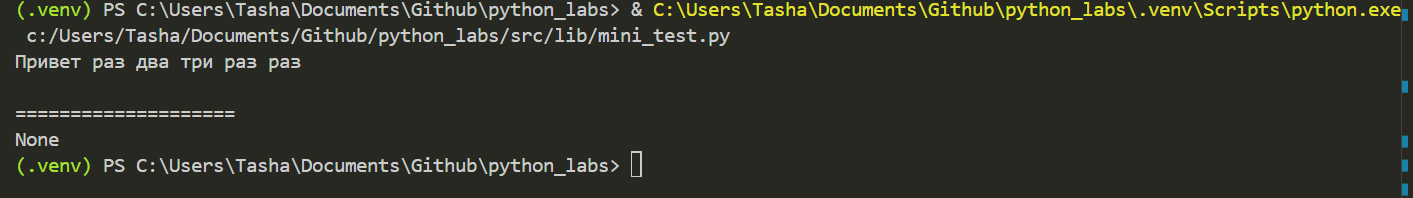
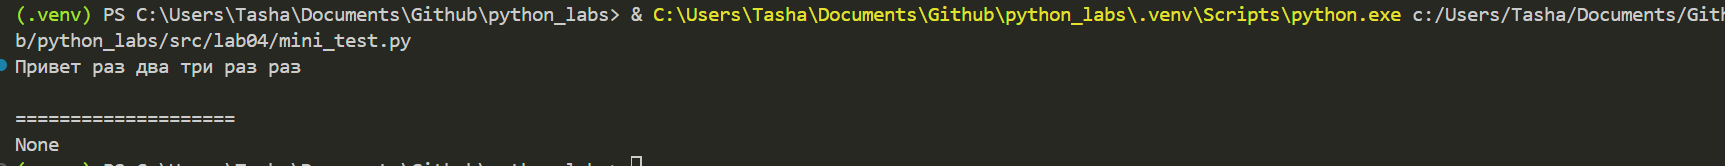
поперекладывала папки

diff --git a/src/lab04/io_txt_csv.py b/src/lab04/io_txt_csv.py
@@ -7,7 +7,8 @@ from pathlib import Path
 def read_text(path: str | Path, encoding: str = "utf-8") -> str:
     """
     Открыть файл на чтение в указанной кодировке и вернуть содержимое как одну строку 
-    + обработка ошибок + возможность выбора кодировки
+    + обработка ошибок + возможность выбора кодировки (что бы выбрать другую кодировку , нужно ввести
+    другой вид кодировки, например: encoding="cp1251")
     """
     p = Path(path)
 

diff --git a/src/lab04/text_report.py b/src/lab04/text_report.py
@@ -1,6 +1,6 @@
 from pathlib import Path
 
-from lib.io_txt_csv import read_text
+from lab04.io_txt_csv import read_text
 from lib.text import *
 
 
@@ -20,4 +20,4 @@ def text_report(path: str | Path):
     for element in top:
         print(element[0], ":", element[1])
     
-text_report("src/data/input.txt")
+text_report("data/lab04/input.txt")

diff --git a/src/lab04/mini_test.py b/src/lab04/mini_test.py
@@ -1,0 +1,8 @@
+from lab04.io_txt_csv import read_text, write_csv
+
+txt = read_text("data/lab04/input.txt")  # должен вернуть строку
+f_csv = write_csv([("word","count"),("test",3)], "data/lab04/check.csv")  # создаст CSV
+
+print(txt)
+print("="*20)
+print(f_csv)
